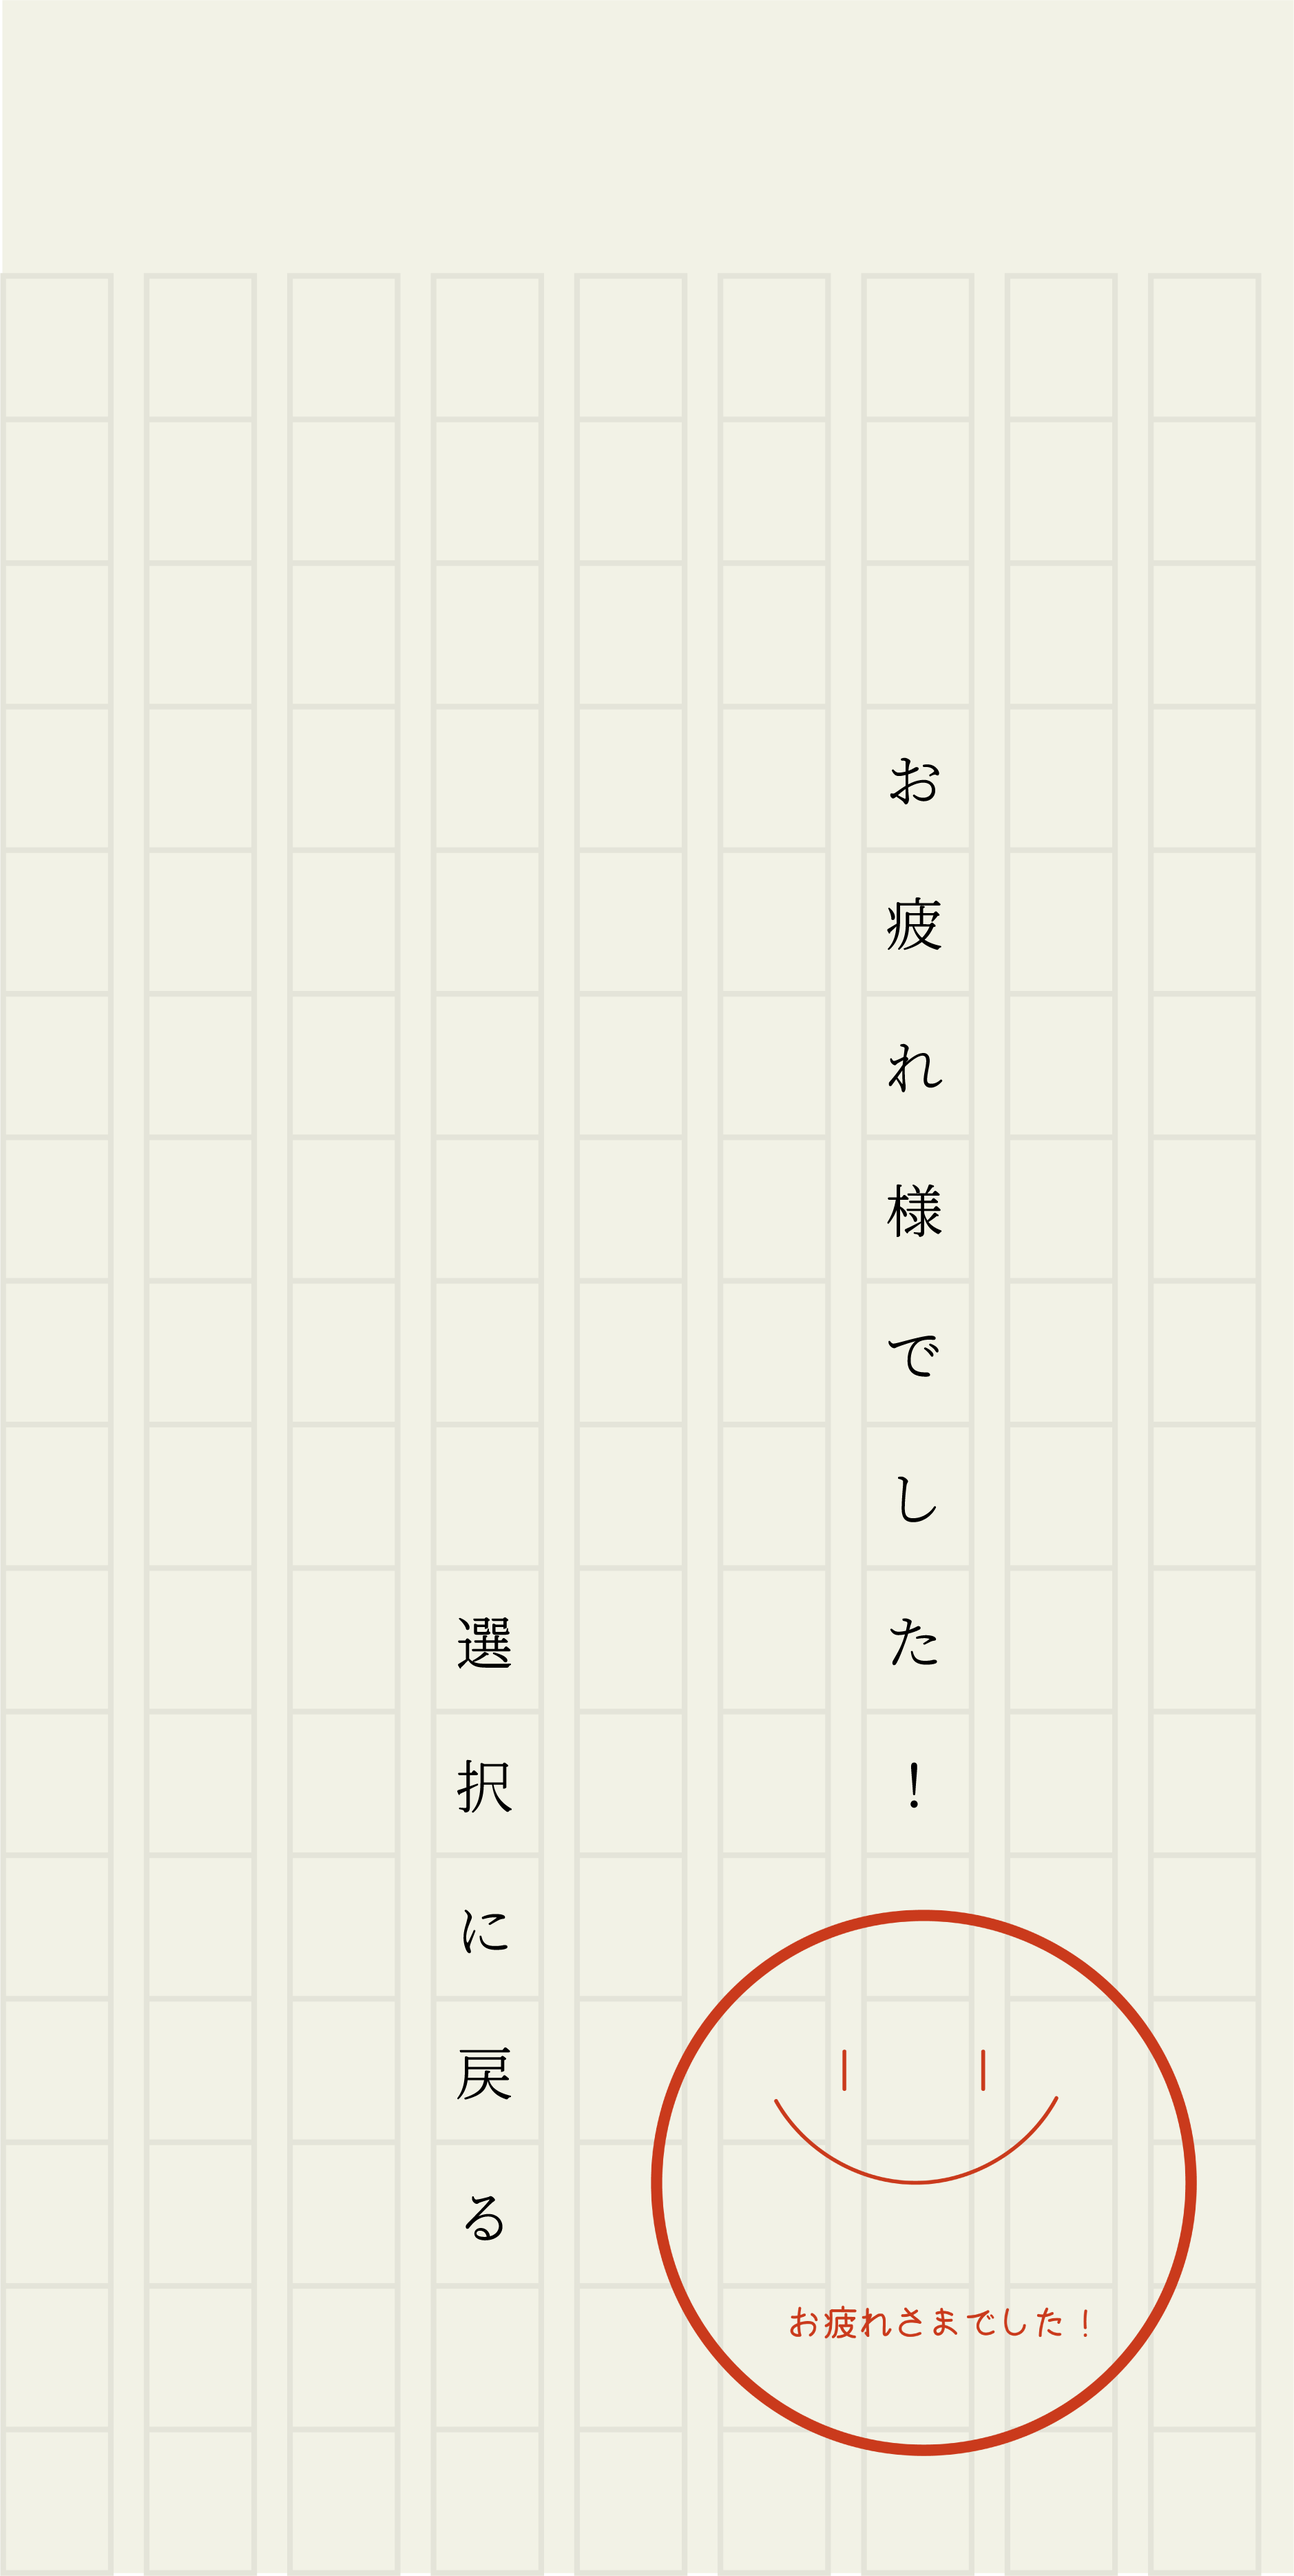
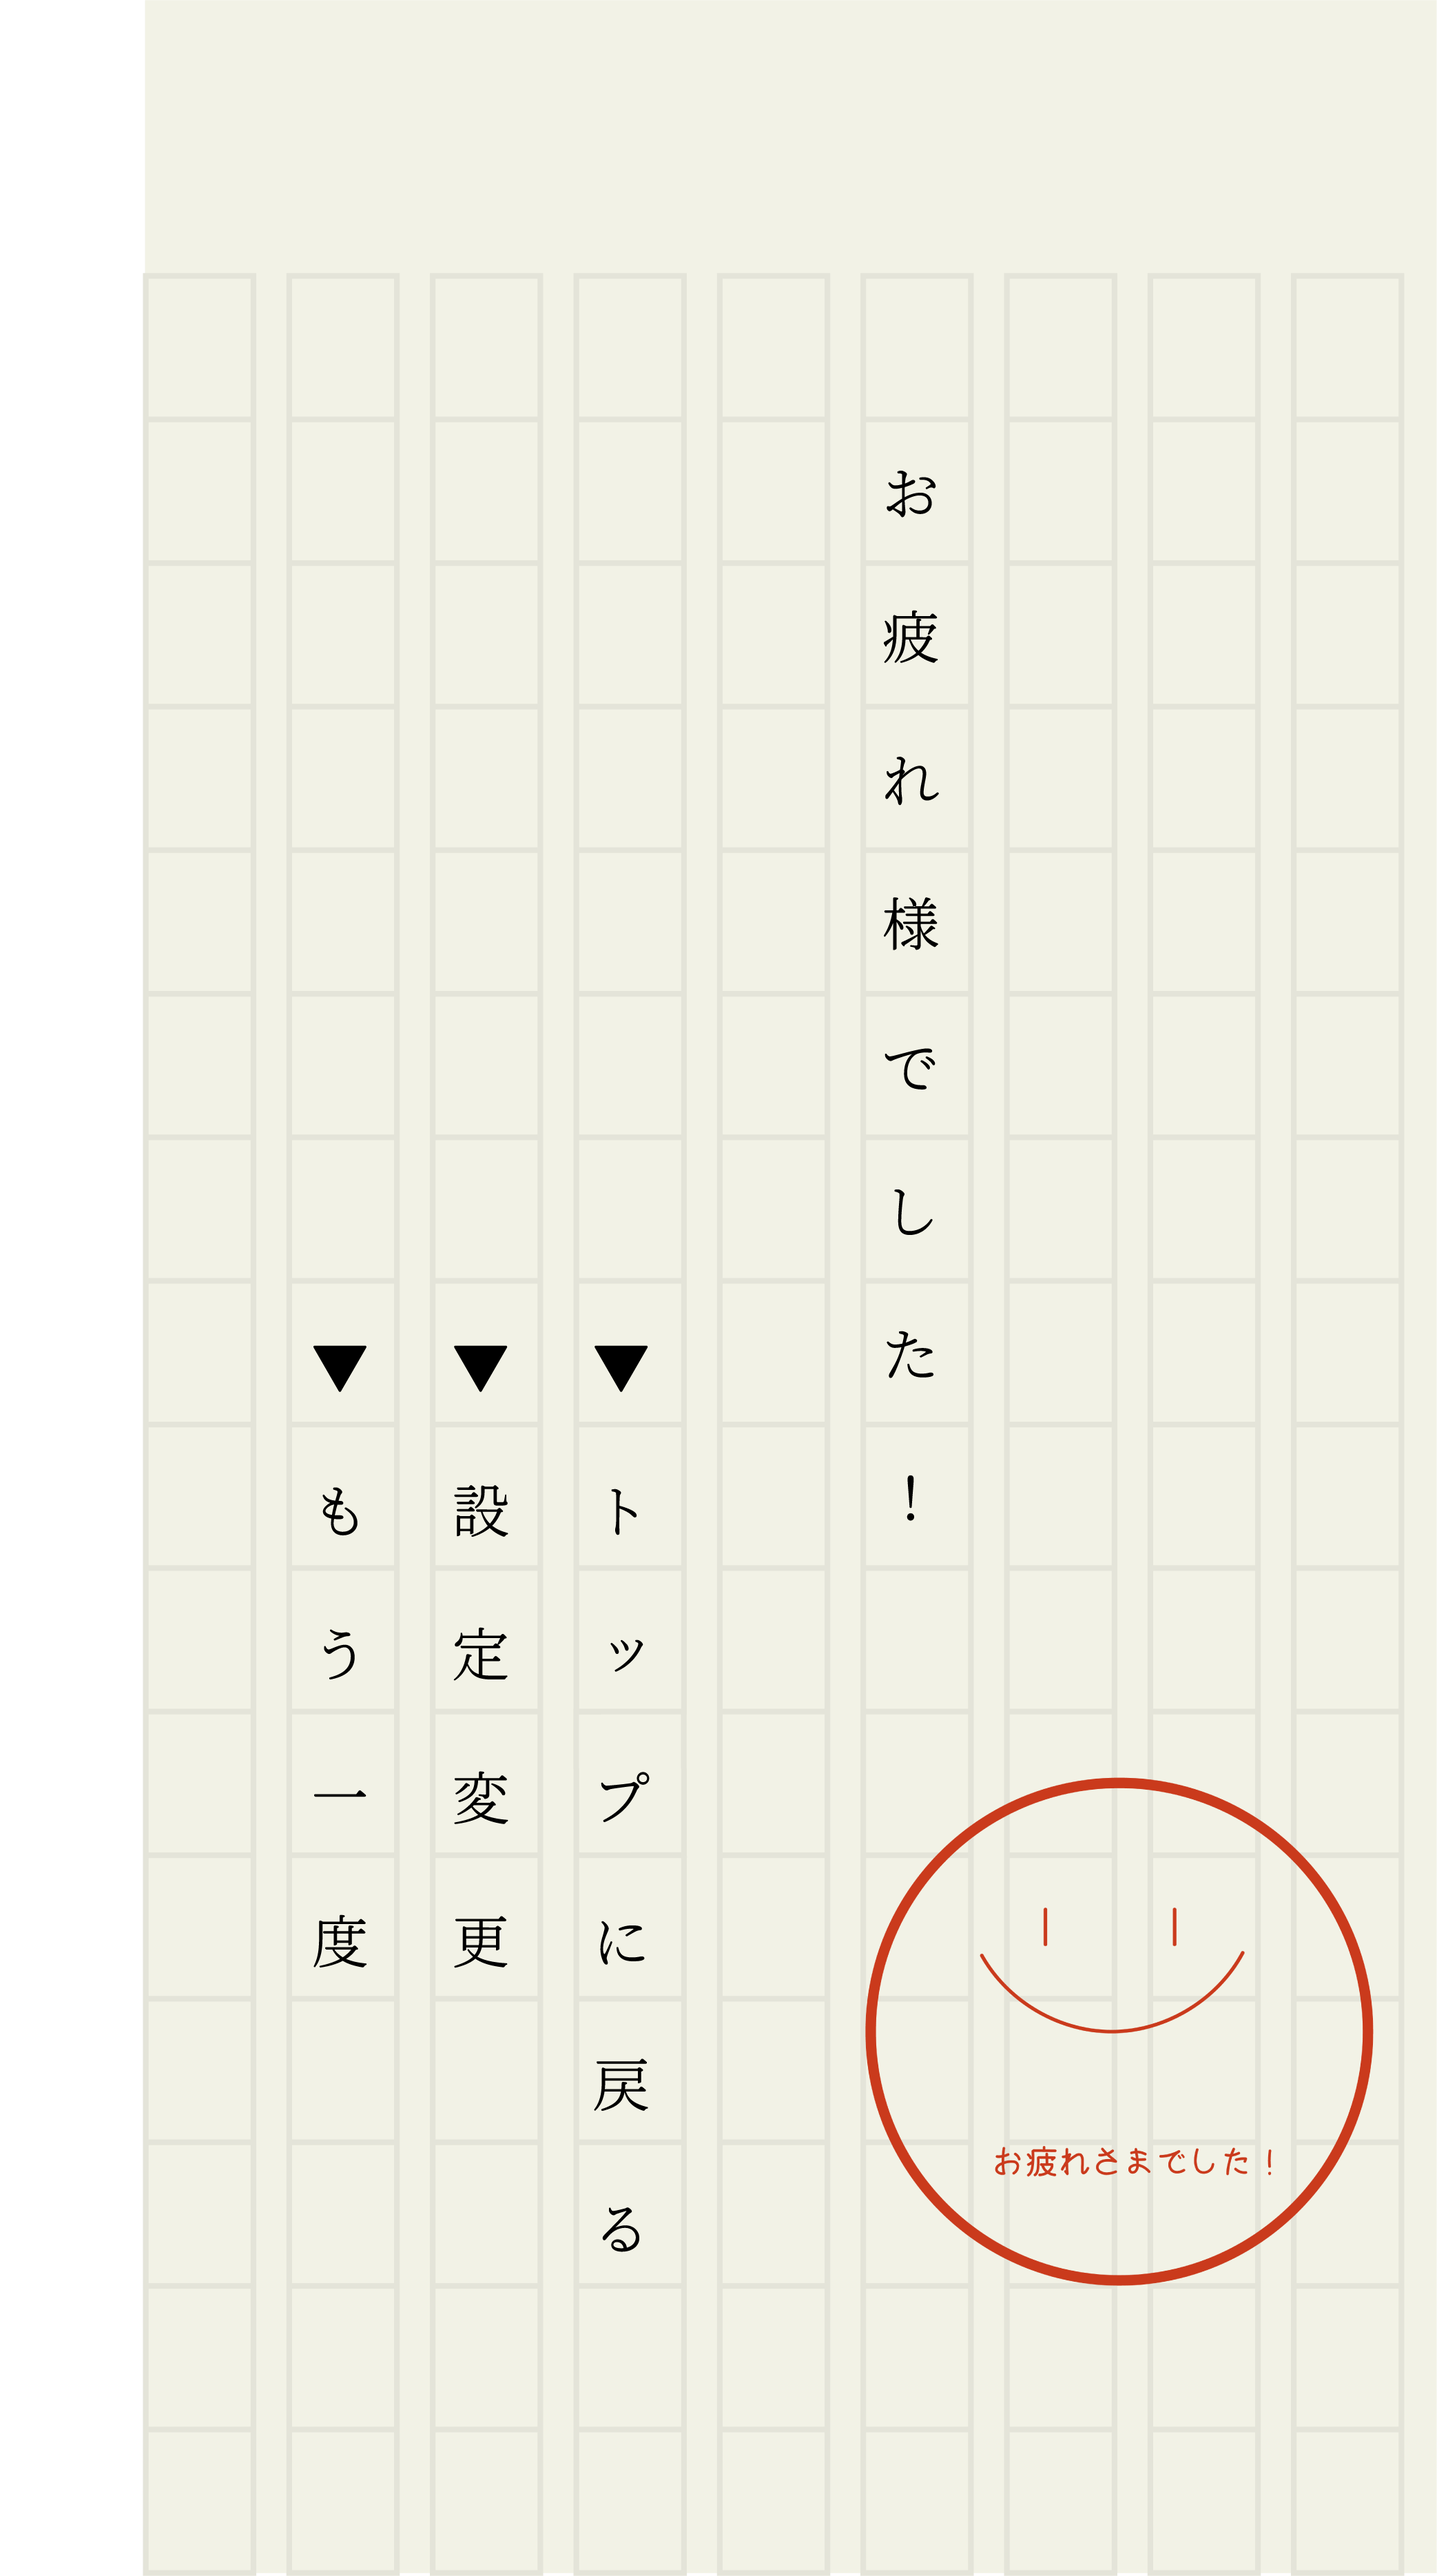
最後の画面苦戦中

diff --git a/sitasuberi/Syuryo2ViewController.swift b/sitasuberi/Syuryo2ViewController.swift
@@ -1,0 +1,118 @@
+//
+//  Syuryo2ViewController.swift
+//  sitasuberi
+//
+//  Created by 藤井美羽 on 2021/12/10.
+//
+
+import UIKit
+
+class Syuryo2ViewController: UIViewController, UICollectionViewDataSource, UICollectionViewDelegate {
+
+    @IBOutlet weak var collectionView: UICollectionView!
+    @IBOutlet weak var imageView: UIImageView!
+    
+    var sutaImage = UIImage()
+    var number:Int!
+    var sutaImageArray = [String]()
+    var titleArray = Array(String(repeating: " ", count: 49) + "お疲れ様でした！" + String(repeating: " ", count: 30) + "▼トップに戻る" + String(repeating: "　", count: 9) + "▼設定変更" + String(repeating: "　", count: 11) + "▼もう一度")
+    
+    var scale:CGFloat = 1.0
+       // Screenの高さ
+       var screenHeight:CGFloat!
+       // Screenの幅
+       var screenWidth:CGFloat!
+    
+    
+    override func viewDidLoad() {
+        super.viewDidLoad()
+        self.collectionView.bounds.size.width = self.view.bounds.size.width-10
+        self.collectionView.bounds.size.height = self.view.bounds.size.height
+        self.collectionView.center = self.view.center
+        
+        collectionView.dataSource = self
+        collectionView.delegate = self
+        
+        // 画面サイズ取得
+               let screenSize: CGRect = UIScreen.main.bounds
+               screenWidth = screenSize.width
+               screenHeight = screenSize.height
+               
+               // 表示窓のサイズと位置を設定
+               imageView.frame = CGRect(x:0, y:0, width: screenWidth/9, height: screenHeight/16)
+               imageView.center = self.view.center
+        
+        self.imageView.contentMode = .scaleAspectFit
+              
+            // 画像のサイズ
+               let imgW = sutaImage.size.width
+               let imgH = sutaImage.size.height
+                
+                scale = screenHeight / 4
+        let rect:CGRect = CGRect(x:0, y:0, width: imgW*scale, height: imgH*scale)
+//        imageView.frame = rect;
+       
+               // UIImageView 初期化 インスタンス作成
+               let imageeView = UIImageView(image: sutaImage)
+               imageeView.frame = rect;
+        imageView.addSubview(imageeView)
+    }
+   
+
+    func collectionView(_ collectionView: UICollectionView, numberOfItemsInSection section: Int) -> Int {
+        return 160
+    }
+    
+    func collectionView(_ collectionView: UICollectionView, cellForItemAt indexPath: IndexPath) -> UICollectionViewCell {
+        let cell = collectionView.dequeueReusableCell(withReuseIdentifier: "CollectionViewCell", for: indexPath) as! NewCollectionViewCell
+        
+        let length = titleArray.count
+        if indexPath[1] < length {
+            cell.label.text = String(titleArray[indexPath[1]])
+            if String(titleArray[indexPath[1]]) == "ー"{
+                //Labelの回転などを行う場合にはアフィン変換を利用する
+                let angle = 90 * CGFloat.pi / 180
+
+                let affine = CGAffineTransform(a: cos(angle), b:sin(angle),
+                                                       c: sin(angle), d: -cos(angle),
+                                                       tx: 0, ty: 0)
+                cell.label.transform = affine
+
+            }else if String(titleArray[indexPath[1]]) == "、" || String(titleArray[indexPath[1]]) == "、" {
+                cell.label.textAlignment = .right
+                cell.label.text = String(titleArray[indexPath[1]]) + "\n"
+            }
+       } else {
+            cell.label.text = ""
+        }
+        
+        
+        return cell
+    }
+    
+    func collectionView(_ collectionView: UICollectionView, didSelectItemAt indexPath: IndexPath) {
+
+        
+        if indexPath.item == 86 || indexPath.item == 87 || indexPath.item == 88 || indexPath.item == 89 || indexPath.item == 90 || indexPath.item == 91 || indexPath.item == 92 || indexPath.item == 93{
+            let startViewController = self.storyboard?.instantiateViewController(withIdentifier: "StartVC") as! StartViewController
+            self.navigationController?.pushViewController(startViewController, animated: true)
+            print("the cell item selected is: \(indexPath.item)")
+            print("the cell row selected is: \(indexPath.row)")
+        }else if indexPath.item == 103 || indexPath.item == 104 || indexPath.item == 105 || indexPath.item == 106 || indexPath.item == 107 {
+            let decideViewController = self.storyboard?.instantiateViewController(withIdentifier: "DecideVC") as! DecideViewController
+            self.navigationController?.pushViewController(decideViewController, animated: true)
+            print("the cell item selected is: \(indexPath.item)")
+            print("the cell row selected is: \(indexPath.row)")
+        }else if indexPath.item == 119 || indexPath.item == 120 || indexPath.item == 121 || indexPath.item == 122 || indexPath.item == 123 {
+            let loadingViewController = self.storyboard?.instantiateViewController(withIdentifier: "LoadingVC") as! LoadingViewController
+            self.navigationController?.pushViewController(loadingViewController, animated: true)
+            print("the cell item selected is: \(indexPath.item)")
+            print("the cell row selected is: \(indexPath.row)")
+        }
+        print("the cell item selected is: \(indexPath.item)")
+        print("the cell row selected is: \(indexPath.row)")
+        
+    }
+    
+
+}

diff --git a/sitasuberi/LoadingViewController.swift b/sitasuberi/LoadingViewController.swift
@@ -88,14 +88,14 @@ class LoadingViewController: UIViewController,UICollectionViewDataSource, UIColl
             
            if i == hayakutiArray.count - 1 {
           //  if i == i{
-            let syuryoViewController = self.storyboard?.instantiateViewController(withIdentifier: "SyuryoVC") as! SyuryoViewController
-            syuryoViewController.number = Int.random(in: 0...1)
-            if syuryoViewController.number == 0 {
-                syuryoViewController.otuImage = UIImage(named: "お疲れ1.png")!
+            let syuryo2ViewController = self.storyboard?.instantiateViewController(withIdentifier: "Syuryo2VC") as! Syuryo2ViewController
+            syuryo2ViewController.number = Int.random(in: 0...1)
+            if syuryo2ViewController.number == 0 {
+                syuryo2ViewController.sutaImage = UIImage(named: "絵文字1.png")!
             }else{
-                syuryoViewController.otuImage = UIImage(named: "お疲れ2.png")!
+                syuryo2ViewController.sutaImage = UIImage(named: "絵文字2.png")!
             }
-                self.navigationController?.pushViewController(syuryoViewController, animated: true)
+                self.navigationController?.pushViewController(syuryo2ViewController, animated: true)
             }
             print("the cell item selected is: \(indexPath.item)")
             print("the cell row selected is: \(indexPath.row)")

diff --git a/sitasuberi/SyuryoViewController.swift b/sitasuberi/SyuryoViewController.swift
@@ -25,6 +25,17 @@ class SyuryoViewController: UIViewController {
         self.navigationController?.pushViewController(startViewController, animated: true)
     }
     
+    @IBAction func settei() {
+        let decideViewController = self.storyboard?.instantiateViewController(withIdentifier: "DecideVC") as! DecideViewController
+        self.navigationController?.pushViewController(decideViewController, animated: true)
+    }
+    
+    @IBAction func mouitido() {
+        let loadingViewController = self.storyboard?.instantiateViewController(withIdentifier: "LoadingVC") as! LoadingViewController
+        self.navigationController?.pushViewController(loadingViewController, animated: true)
+    }
+    
+    
     override func viewDidLoad() {
         super.viewDidLoad()
         let screenSize: CGRect = UIScreen.main.bounds
@@ -44,9 +55,12 @@ class SyuryoViewController: UIViewController {
         otuImageView.addSubview(imageView)
         
         // Do any additional setup after loading the view.
+        
     }
     
 
-    
+    func viewForZooming(in scrollView: UIScrollView) -> UIView? {
+    return otuImageView
+}
 
 }

diff --git a/sitasuberi/ItirandetailViewController.swift b/sitasuberi/ItirandetailViewController.swift
@@ -37,8 +37,6 @@ class ItirandetailViewController: UIViewController, UIScrollViewDelegate {
                
 //
         self.imageView.contentMode = .scaleAspectFit
-               // 表示する画像
-            //   let UIImage = UIImage(named: "itiranImageArray")!
               
             // 画像のサイズ
                let imgW = itiranImage.size.width
@@ -71,11 +69,7 @@ class ItirandetailViewController: UIViewController, UIScrollViewDelegate {
                scrollView.showsVerticalScrollIndicator = false //縦スクロールを不可
      
     }
-//        // ナビゲーションを透明にする処理
-//        self.navigationController!.navigationBar.setBackgroundImage(UIImage(), for: .default)
-//        self.navigationController!.navigationBar.shadowImage = UIImage()
-//    }
-//
+
     func viewForZooming(in scrollView: UIScrollView) -> UIView? {
     return imageView
 }

diff --git a/sitasuberi/TukaikataViewController.swift b/sitasuberi/TukaikataViewController.swift
@@ -37,8 +37,6 @@ class TukaikataViewController: UIViewController, UIScrollViewDelegate {
                
 //
         self.imageView.contentMode = .scaleAspectFit
-               // 表示する画像
-            //   let UIImage = UIImage(named: "itiranImageArray")!
               
             // 画像のサイズ
                let imgW = tukaikataImage.size.width
@@ -71,11 +69,7 @@ class TukaikataViewController: UIViewController, UIScrollViewDelegate {
                scrollView.showsVerticalScrollIndicator = false //縦スクロールを不可
      
     }
-//        // ナビゲーションを透明にする処理
-//        self.navigationController!.navigationBar.setBackgroundImage(UIImage(), for: .default)
-//        self.navigationController!.navigationBar.shadowImage = UIImage()
-//    }
-//
+
     func viewForZooming(in scrollView: UIScrollView) -> UIView? {
     return imageView
 }
